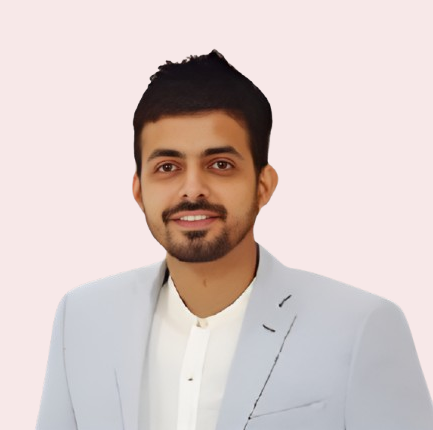
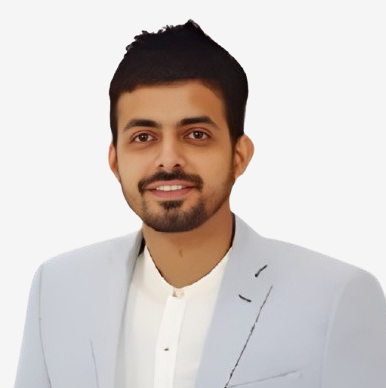
Update the team images

diff --git a/about.html b/about.html
@@ -221,7 +221,7 @@
                 <div class="col-lg-3 col-md-6 wow fadeInUp" data-wow-delay="0.5s">
                     <div class="team-item bg-light">
                         <div class="overflow-hidden">
-                            <img class="img-fluid" src="img/team-3.jpg" alt="">
+                            <img class="img-fluid" src="img/team-3.png" alt="">
                         </div>
                         <div class="position-relative d-flex justify-content-center" style="margin-top: -23px;">
                             <div class="bg-light d-flex justify-content-center pt-2 px-1">

diff --git a/contact.html b/contact.html
@@ -220,7 +220,7 @@
                 <div class="col-lg-3 col-md-6 wow fadeInUp" data-wow-delay="0.5s">
                     <div class="team-item bg-light">
                         <div class="overflow-hidden">
-                            <img class="img-fluid" src="img/team-3.jpg" alt="">
+                            <img class="img-fluid" src="img/team-3.png" alt="">
                         </div>
                         <div class="position-relative d-flex justify-content-center" style="margin-top: -23px;">
                             <div class="bg-light d-flex justify-content-center pt-2 px-1">

diff --git a/index.html b/index.html
@@ -387,7 +387,7 @@
                 <div class="col-lg-3 col-md-6 wow fadeInUp" data-wow-delay="0.5s">
                     <div class="team-item bg-light">
                         <div class="overflow-hidden">
-                            <img class="img-fluid" src="img/team-3.jpg" alt="">
+                            <img class="img-fluid" src="img/team-3.png" alt="">
                         </div>
                         <div class="position-relative d-flex justify-content-center" style="margin-top: -23px;">
                             <div class="bg-light d-flex justify-content-center pt-2 px-1">

diff --git a/team.html b/team.html
@@ -133,7 +133,7 @@
                 <div class="col-lg-3 col-md-6 wow fadeInUp" data-wow-delay="0.5s">
                     <div class="team-item bg-light">
                         <div class="overflow-hidden">
-                            <img class="img-fluid" src="img/team-3.jpg" alt="">
+                            <img class="img-fluid" src="img/team-3.png" alt="">
                         </div>
                         <div class="position-relative d-flex justify-content-center" style="margin-top: -23px;">
                             <div class="bg-light d-flex justify-content-center pt-2 px-1">
